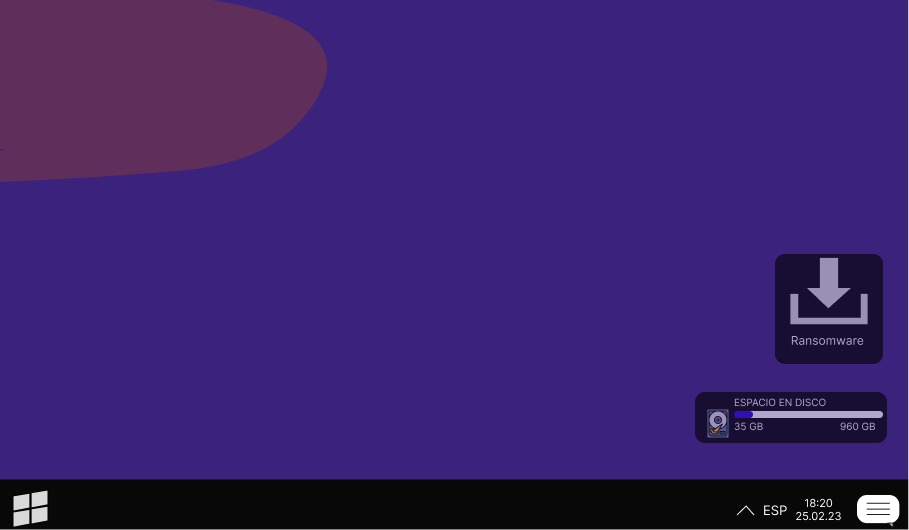
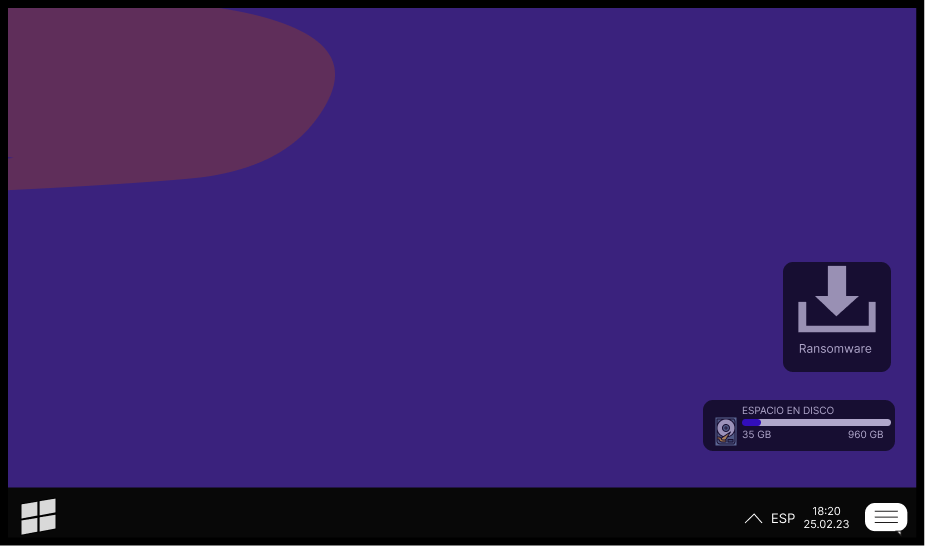
Se colocaron nuevas imagenes y se update js

diff --git a/proyecto5/azul/static/js/step.js b/proyecto5/azul/static/js/step.js
@@ -2,26 +2,64 @@ const image1 = document.getElementById("imagen1");
 const image2 = document.getElementById("imagen2");
 const image3 = document.getElementById("imagen3");
 const image4 = document.getElementById("imagen4");
+let vandera = true;
+
+function desvanecer() {
+  setTimeout(() => {
+    image4.style.display = "none";
+  }, 3000);
+}
+
+function n1() {
+  image3.style.display = "relative";
+  image4.style.position = "absolute";
+  image4.style.top = "100px";
+  image4.style.left = "37%";
+  image4.style.display = "block";
+}
+
+function n2() {
+  image3.style.display = "relative";
+  image4.style.position = "absolute";
+  image4.style.top = "100px";
+  image4.style.left = "37%";
+  image4.style.display = "none";
+}
 
 setTimeout(() => {
   image1.style.display = "none";
   image2.style.display = "block";
-}, 3000);
+}, 1000);
+// 3000
 
 setTimeout(() => {
   image2.style.display = "none";
   image3.style.display = "block";
   cambiaClase();
-}, 5000);
+}, 1000);
+// 5000
 
 let mostrarImagenClic = () => {
-  image3.style.display = "relative";
-  image4.style.position = "absolute";
-  image4.style.top = "50px";
-  image4.style.left = "50%";
-  image4.style.display = "block";
-  return image4, image3;
+  if (vandera == true){
+    n1();
+    vandera = false;
+  } else if (vandera == false){
+    n2();
+    vandera = true;
+  }
+  
 };
+
+
+// let mostrarImagenClic = () => {
+//   image3.style.display = "relative";
+//   image4.style.position = "absolute";
+//   image4.style.top = "50px";
+//   image4.style.left = "50%";
+//   image4.style.display = "block";
+//   desvanecer();
+//   return image4, image3;
+// };
 
 // Esta funcion sirve para cambiar una etiqueta
 // function cambiaClase() {

diff --git a/proyecto5/azul/templates/directory/step1.html b/proyecto5/azul/templates/directory/step1.html
@@ -119,7 +119,7 @@
           />
         </map>
         <img
-          src="/media/img/5.gif"
+          src="/media/img/6.png"
           alt=""
           srcset=""
           class="img-fluid img5"
